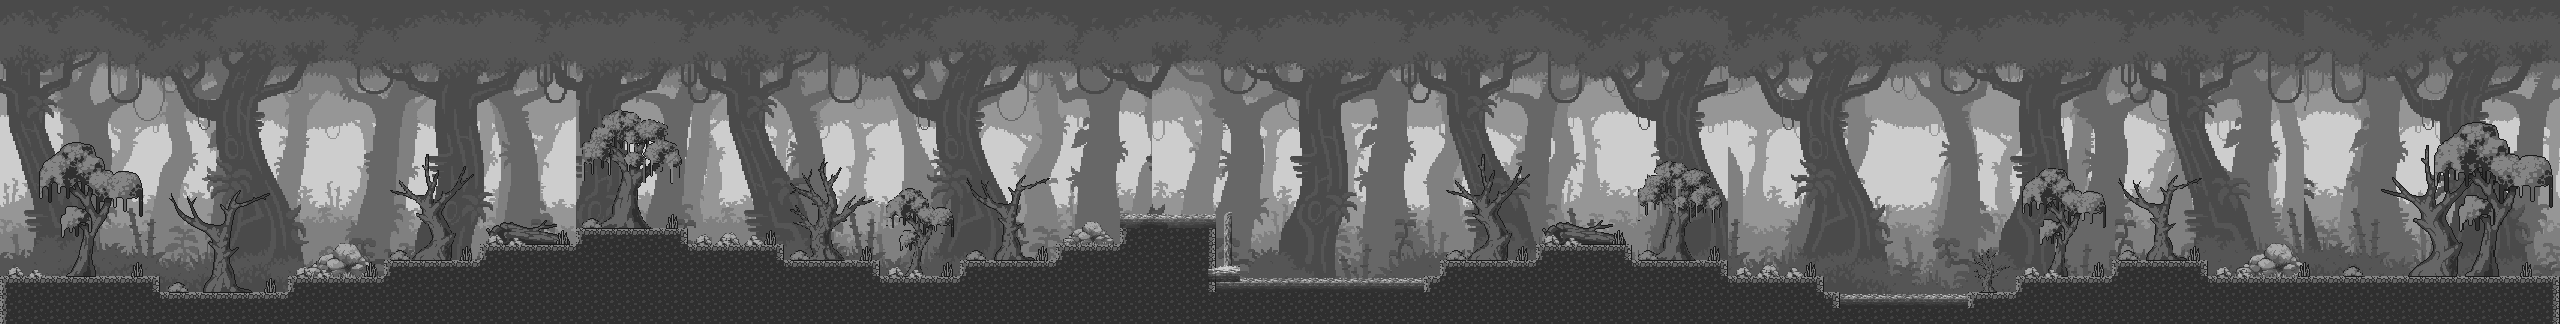
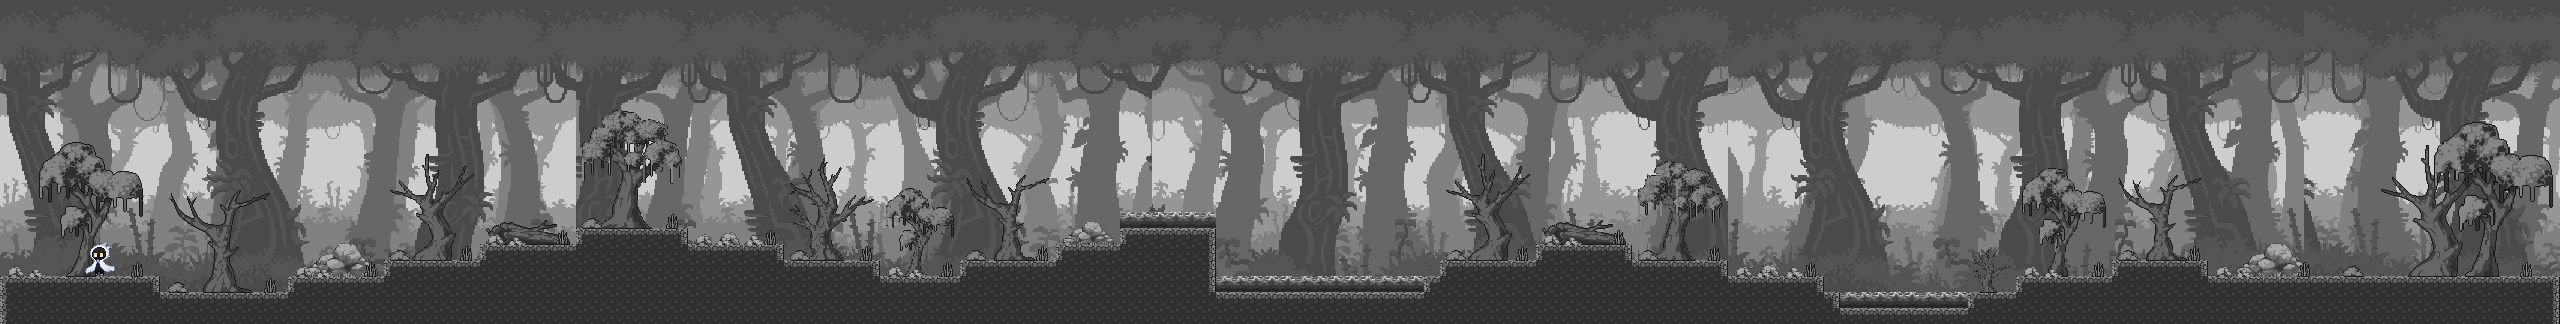
폭포 제거와 파랑 전달 및 회수 미리보기와 조작 안내 갱신

diff --git a/tools/preview_levels.py b/tools/preview_levels.py
@@ -9,6 +9,7 @@ import pico2d
 sys.path.insert(0, str(Path(__file__).resolve().parent.parent))
 from code.background import Background
 from code.level import Level
+from code.color_system import ColorSystem
 from code.player import Player
 
 canvas = None
@@ -47,55 +48,67 @@ def main():
     output = Path(__file__).resolve().parent.parent / "previews"
     output.mkdir(exist_ok=True)
     with patch("pico2d.load_image", side_effect=Sprite):
-        for index in (0,):
-            level = Level()
-            background = Background(level)
-            player = Player(level)
+        level = Level()
+        background = Background(level)
+        player = Player(level)
+        colors = ColorSystem()
+
+        def render(camera):
+            global canvas
+            canvas = Image.new("RGB", (1152, 648))
+            background.draw(camera)
+            player.draw(camera)
+            background.draw_overlay(camera, player)
+            return canvas.copy()
+
+        for label, camera in (("start", 0), ("middle", 900), ("water", 3400),
+                              ("end", level.width - 1152), ("run_right", 0), ("run_left", 0)):
             player.enter_level(level)
-            for label, camera in (("start", 0), ("middle", 900), ("water", 3400),
-                                  ("waterfall", 1900), ("end", level.width - 1152),
-                                  ("run_right", 0), ("run_left", 0)):
-                canvas = Image.new("RGB", (1152, 648))
-                player.enter_level(level)
-                if label == "end":
-                    player.x, player.y = level.end_x, 96 + player.DRAW_SIZE / 2
-                elif label == "water":
-                    pool = level.water[2]
-                    player.x = (pool.left + pool.right) / 2
-                    player.y = pool.bottom + player.DRAW_SIZE / 2
-                elif label == "waterfall":
-                    pool = level.water[1]
-                    player.x, player.y = pool.left + 160, pool.bottom + player.DRAW_SIZE / 2
-                elif label.startswith("run_"):
-                    player.enter_level(level)
-                    if label == "run_left":
-                        player.x = 420
-                    player.keys.add(pico2d.SDLK_d if label == "run_right" else pico2d.SDLK_a)
-                    for _ in range(24):
-                        player.update(1 / 60)
-                background.draw(camera)
-                player.draw(camera)
-                background.draw_overlay(camera, player)
-                canvas.save(output / f"map{index + 1}_{label}.png")
-            # A moving preview uses the same draw calls and frame clock as the game.
-            frames = []
-            for step in range(20):
-                canvas = Image.new("RGB", (1152, 648))
-                background.water.time = step / 10
-                background.draw(1900)
-                background.draw_overlay(1900, player)
-                frames.append(canvas.copy())
-            frames[0].save(output / "forest_waterfall.gif", save_all=True,
-                           append_images=frames[1:], duration=100, loop=0)
-            overview = Image.new("RGB", (level.width, 648))
-            for left in range(0, level.width, 1152):
-                camera = min(left, level.width - 1152)
-                canvas = Image.new("RGB", (1152, 648))
-                background.draw(camera)
-                background.draw_overlay(camera, player)
-                width = min(1152, level.width - left)
-                overview.paste(canvas.crop((left - camera, 0, left - camera + width, 648)), (left, 0))
-            overview.resize((2560, 324), Image.Resampling.NEAREST).save(output / "forest_overview.png")
+            if label == "end":
+                player.x, player.y = level.end_x, 96 + player.DRAW_SIZE / 2
+            elif label == "water":
+                pool = level.water[2]
+                player.x = (pool.left + pool.right) / 2
+                player.y = pool.top + player.DRAW_SIZE / 2
+            elif label.startswith("run_"):
+                if label == "run_left":
+                    player.x = 300
+                player.keys.add(pico2d.SDLK_d if label == "run_right" else pico2d.SDLK_a)
+                for _ in range(24):
+                    player.update(1 / 60)
+            render(camera).save(output / f"map1_{label}.png")
+
+        player.enter_level(level)
+        pool = level.water[1]
+        player.x, player.y = pool.left + 160, pool.top + player.DRAW_SIZE / 2
+        render(1900).save(output / "blue_01_solid.png")
+        colors.interact_at(player.x, pool.top - 8, level, player)
+        player.update(0.4)
+        background.update(0.2)
+        render(1900).save(output / "blue_02_liquid.png")
+        colors.interact_at(player.x, pool.top - 8, level, player)
+        render(1900).save(output / "blue_03_reclaimed.png")
+
+        player.enter_level(level)
+        player.x, player.y = pool.left + 160, pool.top + player.DRAW_SIZE / 2
+        frames = []
+        for step in range(30):
+            if step in (5, 22):
+                colors.interact_at(player.x, pool.top - 8, level, player)
+            player.update(0.1)
+            background.update(0.1)
+            frames.append(render(1900))
+        frames[0].save(output / "blue_transfer.gif", save_all=True,
+                       append_images=frames[1:], duration=100, loop=0)
+
+        player.enter_level(level)
+        overview = Image.new("RGB", (level.width, 648))
+        for left in range(0, level.width, 1152):
+            camera = min(left, level.width - 1152)
+            shot = render(camera)
+            width = min(1152, level.width - left)
+            overview.paste(shot.crop((left - camera, 0, left - camera + width, 648)), (left, 0))
+        overview.resize((2560, 324), Image.Resampling.NEAREST).save(output / "forest_overview.png")
 
 
 if __name__ == "__main__":

diff --git a/tools/make_grayscale.py b/tools/make_grayscale.py
@@ -20,8 +20,7 @@ def main():
     sources.extend((p, OUTPUT_ROOT / "tiles" / p.name)
                    for p in (BACKGROUND_ROOT / "tile").glob("Tile_*.png"))
     sources.extend((BACKGROUND_ROOT / "tile" / name, OUTPUT_ROOT / "water" / target)
-                   for name, target in (("GandalfHardcore Water Tiles sheet.png", "surface.png"),
-                                        ("GandalfHardcore Animated Water Tiles.png", "falls.png")))
+                   for name, target in (("GandalfHardcore Water Tiles sheet.png", "surface.png"),))
     sources.extend((p, OUTPUT_ROOT / "objects" / p.relative_to(root / "object" / "Objects"))
                    for p in (root / "object" / "Objects").glob("*/*.png"))
     sources.extend((root / "character" / state / f"{state}_blue.png",

diff --git a/README.md b/README.md
@@ -7,10 +7,12 @@ Python과 pico2d가 설치된 환경에서 프로젝트 루트의 `python main.p
 - **A / D**: 왼쪽 / 오른쪽 이동
 - **스페이스바**: 지면에서 점프 (키를 떼었다 다시 누르기)
 - **S**: 공중에서 빠르게 내려오기
+- **마우스 좌클릭**: 가까운 물에 파란색 전달 / 물에서 파란색 회수
+- **R**: 캐릭터와 물의 색 및 위치 초기화
 - **ESC** 또는 창 닫기: 종료
 
 사원 맵과 다음 맵 전환을 제거하고 5,120픽셀 길이의 숲 맵 하나로 구성했습니다.
-`previews/Free.png`의 전체적인 배치를 참고해 낮은 골짜기 → 숲 언덕 → 높은 물가와 폭포 →
+`previews/Free.png`의 전체적인 배치를 참고해 낮은 골짜기 → 숲 언덕 → 높은 물가 →
 넓은 강 → 낮은 연못 → 숲 가장자리로 이어집니다. Free의 에셋은 사용하지 않습니다.
 기존 정글 배경 5개 레이어가 서로 다른 속도로 스크롤합니다.
 
@@ -20,13 +22,29 @@ Python과 pico2d가 설치된 환경에서 프로젝트 루트의 `python main.p
 실제 보이는 영역 전체가 평평한 마른 지면 안에 들어가도록 크기와 위치를 맞췄습니다.
 오브젝트는 장식이며 밑면을 지면에 2픽셀 겹쳐 표시합니다.
 
-물은 한 타일(32픽셀) 깊이이며 들어가서 바닥을 걸을 수 있습니다.
-물속 이동 속도는 70%이고 스페이스바로 물 밖으로 점프할 수 있습니다.
-`GandalfHardcore Water Tiles sheet.png`의 3프레임 수면을 초당 6프레임으로 재생하고,
-`GandalfHardcore Animated Water Tiles.png`의 20프레임 폭포와 물보라를 초당 10프레임으로 재생합니다.
-절벽 위 물가에서 아래 강으로 폭포가 떨어집니다. 배경·지형·장식·물은 흑백입니다.
+물은 한 타일(32픽셀) 깊이이며 아래 바닥에 이끼 윗면 타일을 사용해 지면을 구분합니다.
+폭포와 물보라는 제거했습니다. 배경·지형·장식은 흑백입니다.
 
-캐릭터는 파란색 원본을 72×72 크기로 표시하며 정지 시 idle, 이동과 점프 시 run을 재생합니다.
+파란색은 캐릭터와 물 전체를 통틀어 하나만 존재합니다. 시작 시 캐릭터가 파랑을 가집니다.
+캐릭터에서 110픽셀 이내에 있는 물의 영역을 좌클릭하면 다음 상태로 전환합니다.
+
+| 상태 | 캐릭터 | 클릭한 물 |
+| --- | --- | --- |
+| 시작 / 색 회수 후 | 파란색 원본 이미지 | 흑백, 애니메이션 없음, 밟을 수 있는 고체 |
+| 색 전달 후 | 기존 `idle_gray.png` / `run_gray.png` | 원본 컬러, 움직이는 액체, 들어갈 수 있음 |
+
+색을 주면 해당 물의 고체 충돌이 즉시 사라지고 캐릭터는 색을 잃습니다.
+같은 물을 다시 좌클릭하면 색을 회수하며 물은 다시 굳습니다.
+물 안에서 회수할 때는 캐릭터를 굳은 물 위로 올려 끼임을 방지합니다.
+색을 물에 맡긴 동안 다른 흑백 물에는 색을 줄 수 없습니다.
+물 밖 클릭, 범위 밖 클릭, 우클릭은 상태를 바꾸지 않습니다.
+R 또는 추락 후 복귀 시 모든 물을 흑백 고체로 되돌리고 파랑을 캐릭터에게 반환합니다.
+
+액체 물은 `GandalfHardcore Water Tiles sheet.png`의 3프레임 수면을 초당 6프레임으로 재생합니다.
+액체 안에서는 바닥을 걸을 수 있으며 이동 속도는 70%이고 스페이스바로 나올 수 있습니다.
+
+캐릭터는 72×72 크기로 표시하며 색 보유 여부에 맞춰 blue / gray 이미지를 사용합니다.
+정지 시 idle, 이동과 점프 시 run을 재생합니다.
 지면에서 달릴 때 뒤쪽 발밑에 Smoke FX Lite 2A-2의 6프레임 연기를 재생합니다.
 정지·공중·물속에서는 새 연기를 생성하지 않습니다.
 
@@ -34,7 +52,7 @@ Python과 pico2d가 설치된 환경에서 프로젝트 루트의 `python main.p
 - 테스트: `python -m unittest discover -s tests`
 - 미리보기 생성: `python tools/preview_levels.py` (Pillow 필요)
 
-`previews/`에 구간별 PNG, 전체 배치 `forest_overview.png`,
-폭포 애니메이션 `forest_waterfall.gif`를 저장합니다.
+`previews/`에 구간별 PNG, 전체 배치 `forest_overview.png`, 색 전달·회수의 세 상태 PNG,
+상호작용 애니메이션 `blue_transfer.gif`를 저장합니다.
 
-사용 자산: GandalfHardcore FREE Platformer Assets (자연석·물·폭포), Smoke FX Lite (달리기 연기).
+사용 자산: GandalfHardcore FREE Platformer Assets (자연석·물), Smoke FX Lite (달리기 연기).
